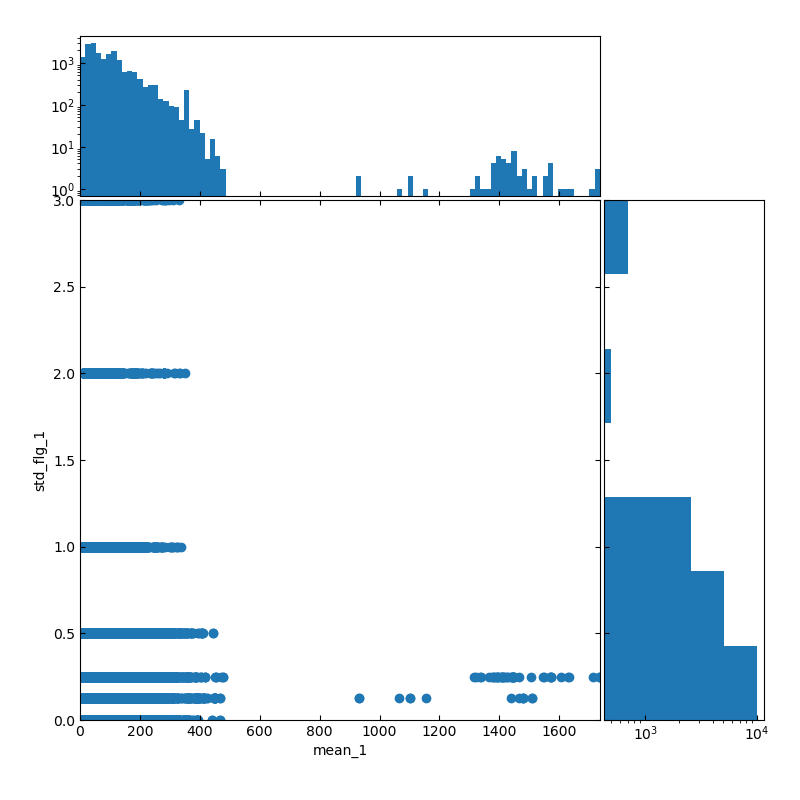
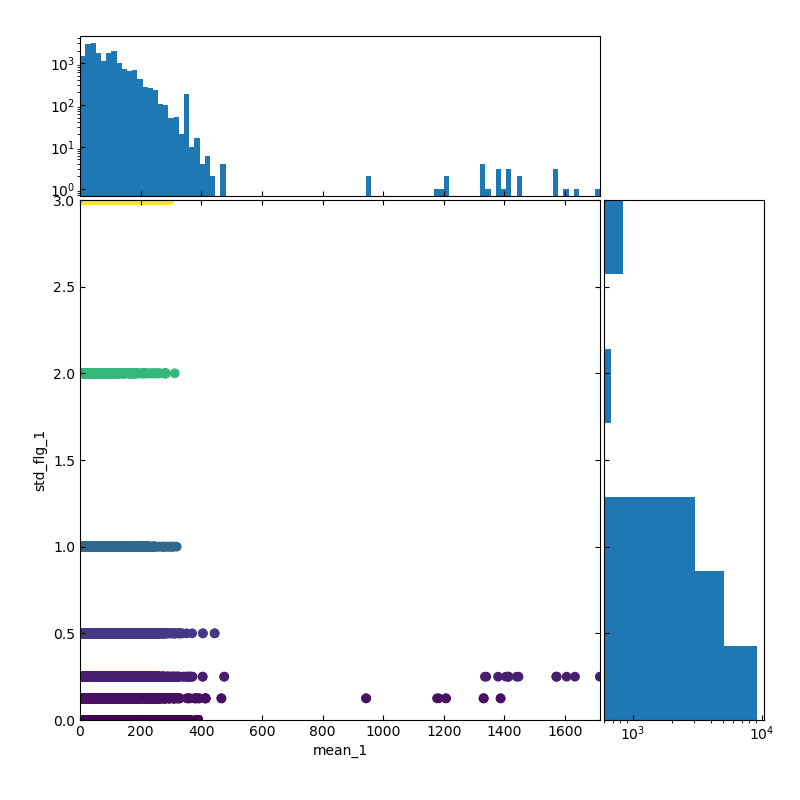
updates to the density routine

diff --git a/Work/Josh/code/create_wu_maps.py b/Work/Josh/code/create_wu_maps.py
@@ -38,7 +38,7 @@ for miles in miles_list:
     df = df[df['ecode'] == "N"]
     print(len(df))
 
-    df1 = sod.spatial_detect(df, radius, sod.mean_stdev)
+    df1 = sod.spatial_detect(df, radius, [sod.mean_stdev, sod.mean_stdev])
     print(df1.std_flg_1.unique())
     print(df1.mean_1.min(), df1.mean_1.max())
     df1.to_csv(csv_out, index=False)
@@ -48,7 +48,10 @@ for miles in miles_list:
 
     for field in ('tot_wd_mgd', "wu_pp_gd", "mean_1", "pop_srv"):
         ax_lst = utl.scatter_plot_with_histograms(df1, (field, "std_flg_1"),
-                                                  xbins=100, ybins=7)
+                                                  xbins=100, ybins=7,
+                                                  c=df1['std_flg_1'].values,
+                                                  cmap='viridis'
+                                                  )
         ax_lst[0].set_xlabel(field)
         ax_lst[0].set_ylabel("std_flg_1")
         plt.show()
@@ -58,7 +61,7 @@ for miles in miles_list:
                                                    ("pop_srv", field),
                                                    xbins=100,
                                                    ybins=100,
-                                                   c=df1['pop_srv'].values,
+                                                   c=df1['std_flg_1'].values,
                                                    cmap='viridis')
         ax_list[0].set_xlabel("pop_srv")
         ax_list[0].set_ylabel(field)
@@ -68,7 +71,7 @@ for miles in miles_list:
                                                ("wu_pp_gd", "mean_1"),
                                                xbins=100,
                                                ybins=100,
-                                               c=df1['pop_srv'].values,
+                                               c=df1['std_flg_1'].values,
                                                cmap='viridis')
     ax_list[0].set_xlabel("wu_pp_gd")
     ax_list[0].set_ylabel("mean_1")

diff --git a/Work/Josh/code/spatial_outlier_detection.py b/Work/Josh/code/spatial_outlier_detection.py
@@ -83,6 +83,7 @@ def mean_stdev(df, agidf, neighbors, field="wu_pp_gd", iteration=1):
 
     tdf = df[df.wsa_agidf.isin(neighbors)]
     tdf = tdf[tdf.wsa_agidf != agidf]
+    tdf = tdf[tdf[olbase] < 3]
     val = df.loc[df["wsa_agidf"] == agidf, key].values[0]
 
     if len(tdf) >= 1:
